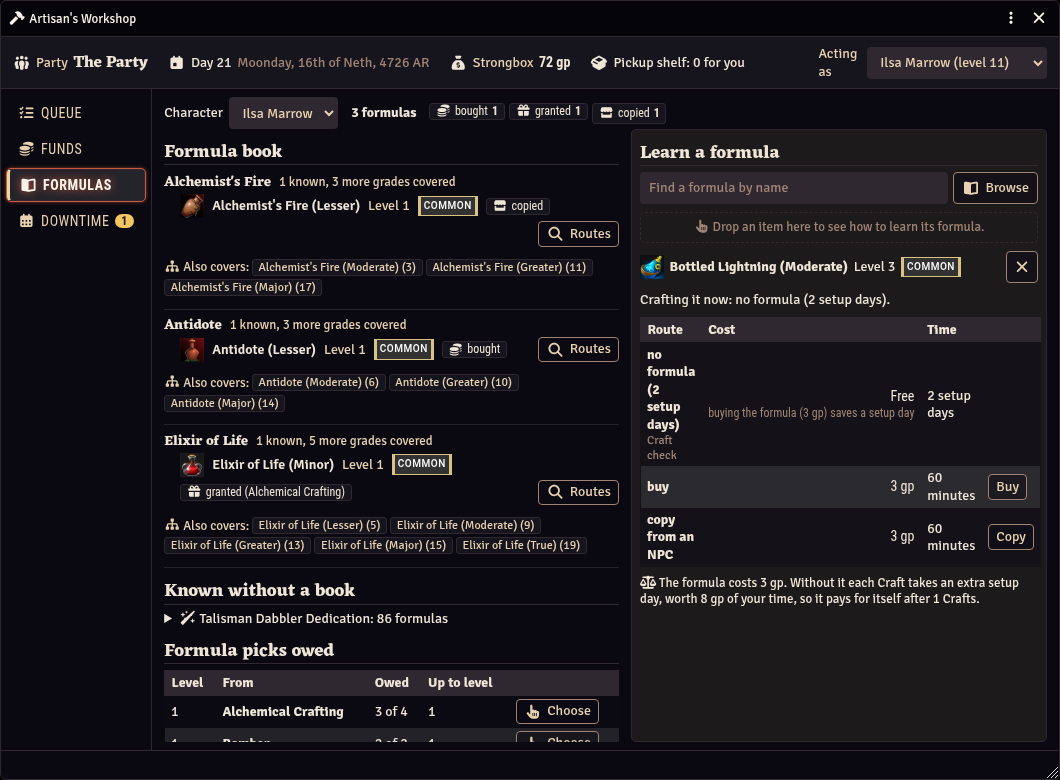
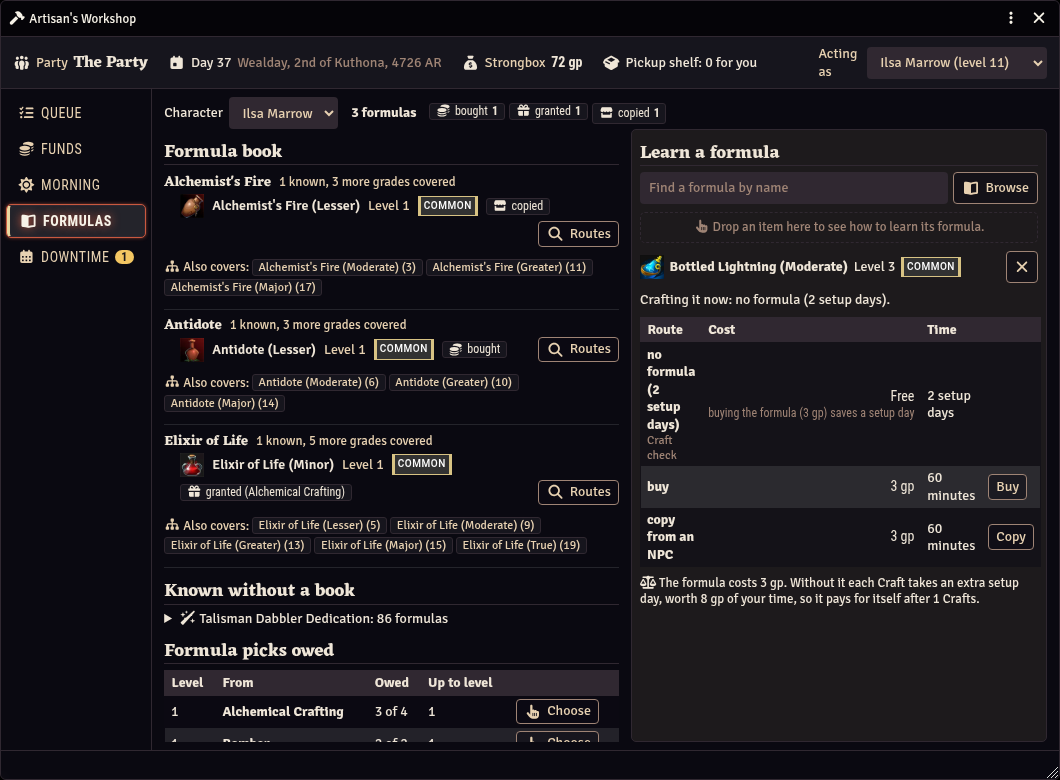
M7 live pass: press-held renders fix; Morning screenshot
First run of the m7-* live plans (with pf2e-dailies active and, where
the plans do not set it themselves, with it off for the world), a
regression run, a hands-on pass as Player One with real clicks, and the
README screenshots refreshed with morning.png (DESIGN 10.13 M7 live
pass, 17.1).

Module fix, with a test that fails without it:
- Typing a talisman count and clicking "Make daily preparations" at
  once lost the click: the count's change event fired on the button's
  press and re-rendered the Morning tab under it. The Workshop now holds
  renders asked for while a pointer is pressed in the window
  (renderParts) and renders after the release's click; field changes
  and live refreshes go through it.

Screenshots: morning.png moves from NEXT_CAPTURES into CAPTURES and the
README; the staging saves a loadout for the demo alchemist through the
API and places a standing order from the fighter's player, so the
capture shows a plan, a request and the talisman picker. Low findings
are logged in DESIGN 10.13 Follow-ups.

Changed region(s): [[0.0, 0.2154, 0.1557, 0.3385], [0.2179, 0.0615, 0.716, 0.0923]]

diff --git a/DESIGN.md b/DESIGN.md
@@ -4980,7 +4980,7 @@ additions to `services.mjs`, `formulas.mjs`, `settings.mjs`, `sync.mjs`, `api.mj
 pure parts (`test/logic/morning.test.mjs`, `expiry.test.mjs`, `talismans.test.mjs`); stub tests the Foundry and window parts
 over a fake of pf2e's crafting model (`test/foundry/pf2e-crafting.mjs`: `CraftingAbility` and `performDailyCrafting` as the
 pf2e source runs them, including stacking by `system` data only, the unawaited stack update of `craft`, and the refusal of a
-pool beyond its slots; `test/foundry/morning.test.mjs`, `ui-m7.test.mjs`). The live plans are written and not yet run. pf2e
+pool beyond its slots; `test/foundry/morning.test.mjs`, `ui-m7.test.mjs`). The live plans passed their first run (M7 live pass, below). pf2e
 read: the dev head `be4ab21b` (`src/module/actor/character/crafting/`, `rule-element/crafting-ability.ts`,
 `special-resource.ts`, `scripts/macros/rest-for-the-night.ts`), pf2e-dailies 4.23.1 from its source map.
 
@@ -5112,7 +5112,7 @@ read: the dev head `be4ab21b` (`src/module/actor/character/crafting/`, `rule-ele
   Firework Technician (regain), the alchemist archetype, Wandering Chef and Munitions Machinist (no regain); new entries
   `talismanic-sage` and `munitions-machinist` (off the ignore list): 249 entries, 1202 ignored, validated against the pf2e
   checkout (`PF2E_SRC=<checkout> npm test`, `validate:registry`).
-- **Live plans** (15.3; `tools/harness/morning-scenarios.mjs`, scenario `m7`; `live-plans.mjs`), to run later:
+- **Live plans** (15.3; `tools/harness/morning-scenarios.mjs`, scenario `m7`; `live-plans.mjs`), run in the M7 live pass:
   - `m7-morning` (GM, P1): the bomber's pools from pf2e (Advanced Alchemy with its sources, Talisman Dabbler offering common
     talismans up to level 5), vials; a loadout of Elixir of Life by family prepares Elixir of Life (Moderate) ×2 at level
     11, infused, stamped with the cycle and 24 hours, written into the book by family; two virtual talismans, none in the
@@ -5200,6 +5200,44 @@ read: the dev head `be4ab21b` (`src/module/actor/character/crafting/`, `rule-ele
     `delete` a second delete of an item already gone. `expirySweep` is single-flight (a sweep asked for meanwhile runs
     once more after it), and the expiry claim's applier runs that sweep instead of marking on its own.
 
+#### M7 live pass (2026-10-27, Foundry 14.368, pf2e 8.6.1, pf2e-dailies 4.23.1, no canvas)
+
+One pass at `1130d98` (M0-M7), then once more after the fix below:
+
+- **M7 plans** (`--runs 1`): all seven pass at the first run with pf2e-dailies active in the world (`m7-rest` turns it off
+  for its own run and back, `m7-dailies` needs it on); `m7-morning`, `m7-expiry`, `m7-standing` and `m7-affix` pass again
+  with pf2e-dailies off for the world. No console errors or warnings on any client, no slow server answers. After the fix,
+  all seven, `m4-ui` and `m6-wizard-players` pass once more.
+- **Regression** (`--runs 1`, pf2e-dailies on): scenarios 1 and 7, `m6-wizard-players`, `m6-income`, `m4-lifecycle` and
+  `m5-fund` pass. Console errors: scenario 7's expected ones (15.3), and on `m6-income`'s second device core's "already
+  exists" for the lock page the first device took (the lock-first race the plan provokes, 5.4).
+- **Found and fixed** (with a test that fails without it):
+  - *Typing a talisman count and clicking "Make daily preparations" at once lost the click* (medium, the hands-on pass,
+    with a click held 120 ms as a hand does). The count's change event fires as the field loses focus, which is on the
+    button's press; it rendered the Morning tab and replaced the button before the release. M6 fixed its two fields by
+    rendering nothing, which the Morning cannot do (the plan's lines follow the counts). The window now holds a render
+    asked for while a pointer is pressed in it (`renderParts`: a capture-phase `pointerdown`, released on the document's
+    `pointerup` or `pointercancel`, `PRESS_HOLD_MS` 1.5 s at most) and renders after the release's click; every render a
+    field's change asks for, and the live refreshes, go through it (`ui-m7.test.mjs`).
+- **Hands-on pass** (a scratch Playwright script, real clicks and typing, the GM, Player One and Player Two online; setup
+  through the harness: the bomber's pools and book put back, a "Healer" loadout of Elixir of Life by family through the
+  API, as there is no loadout editor, a wielded longsword and a repair toolkit from the GM). With pf2e-dailies off: Player
+  One opens the Workshop from the Actors directory, the Morning tab, picks "Healer" in Advanced Alchemy's select, types 1
+  for Eye of Enlightenment (Tab) and 1 for Copper Penny and clicks "Make daily preparations" at once: Elixir of Life
+  (Moderate) ×2 and both talismans made, stamped cycle 0, the Morning card posted (after the fix; before it the click was
+  lost). On the affix board, "Longsword" chosen for Eye of Enlightenment and "Affix": the board says the longsword's
+  talisman works. The GM hands one elixir to Player Two's fighter and one to the party stash, then rests the party from
+  the party sheet (Exploration, the bed button, pf2e's "Rest for the night?" Yes): pf2e deletes the rested characters'
+  temporary items (the alchemist's own and the fighter's elixir, the affixed talisman), the stash's elixir becomes
+  "Elixir of Life (Moderate) (inert)", the alchemist's cycle goes to 1, one Morning prompt on Player One's client and the
+  tab's badge reads 1; preparing again from the tab makes new items stamped cycle 1. With pf2e-dailies on (every page
+  reloaded) the same party rest: its `rested` flag set, the cycle at 2, the cycle-1 elixir in the stash inert, one prompt;
+  Player One opens the character sheet from the directory, clicks pf2e-dailies' icon, picks "Healer" in the Workshop's
+  Advanced Alchemy row (the talisman row on "keep"), Accept: "Morning applied", Elixir of Life (Moderate) ×2 and the two
+  talismans again, stamped cycle 2. No raw keys in the Workshop, pf2e-dailies' window or the cards posted, and no console
+  errors on any client. The dev world's chat log keeps cards and roll flavours posted while the language file failed
+  (before the M6 live pass fix) with raw keys: their text is stored when posted, so they stay so.
+
 #### Follow-ups (M7, low)
 
 - No loadout editor in the window: loadouts are saved from the current preparation (with the last talisman picks) or
@@ -5269,6 +5307,23 @@ read: the dev head `be4ab21b` (`src/module/actor/character/crafting/`, `rule-ele
     with the Workshop's last answer (`flags.MOD.morning.wilderness`).
   - A preserved food whose creator can no longer be read (an actor deleted) stays preserved; Eternal Elixir and the other
     `expiryRule` exceptions of 7.7 are still to come.
+- From the M7 live pass:
+  - The affix board offers every host to each loose talisman: Copper Penny (affixed to an unarmored defense item) was
+    offered the longsword, and "Affix" then refuses it (`wrong-host`). Offer only the hosts `affixHostKinds` allows.
+  - "Affixing the loose talismans takes about 1 minutes" (`Morning.Affix.Minutes` has no singular).
+  - pf2e-dailies' window cuts the talisman pool's "Keep the current preparation and the last talismans made" to "... and
+    the la" in its narrow select; shorten `Dailies.KeepTalismans`.
+  - A standing order's chip names the grade asked for ("1 Elixir of Life (Minor) for Doran Vell") while the pool makes
+    the best grade it allows (the plan's line says Moderate), and names the requester twice when they are the recipient
+    ("(asked by Doran Vell)"). Word it by family, and leave out the requester when it is the recipient.
+  - The Dabbler's picker lists every talisman the pool can make (41 for the 11th-level fixture) in one long column, and
+    the Advanced Alchemy card beside it stretches to its height with empty space (`morning.png`). A filter, or the picked
+    ones first with the rest collapsed.
+  - A tab button's tooltip repeats its visible word in the wide tier (it is for the narrow tier, where the word is
+    hidden); after a click, "Morning" covers the Formulas button below it until the pointer moves.
+  - A party rest from the party sheet deletes the temporary items of every rested holder (pf2e), so an infused item handed
+    to a member who rests too is gone rather than inert; only holders that do not rest (the party stash, an NPC) show the
+    module's inert mark. As the rules want; noted because the Expiry card then has nothing to say for those holders.
 
 ---
 
@@ -6175,6 +6230,16 @@ renders the caption on the image's line, beside the 560 px request form (`test/s
 1440x900), checked and compressed like the rest but not yet linked from the README. After the next run, check it by eye,
 move its entry into `CAPTURES` and add its caption to the README's Screenshots section, which the test then holds. The
 live plan `m7-shots` takes the tab at both sizes and schemes as Player One and the GM into `--shots`.
+
+**Refresh after M7's live pass (2026-10-27).** `morning.png` (the Morning tab as Player One) joins the README after
+`downtime.png`, from `CAPTURES`; `NEXT_CAPTURES` is empty again, for the next new tab. The staging adds the Morning
+(`stageMorning`), each step on the client of whoever would take it: Player One saves Ilsa's "Field kit" loadout for
+Advanced Alchemy through the public API (`api.prep.saveLoadout`, families from `api.formulas.family`: two elixirs of life,
+three alchemist's fires, an antidote, from the formulas staged before), and Player Two places Doran's standing order for an
+elixir of life each morning; the capture opens the tab with the loadout as the pool's plan and two talismans picked, so it
+shows the standing order due, the plan's lines (each at the best grade the pool makes, Elixir of Life (Moderate) ×3 with
+the request) and the Dabbler's picker. All seven captures were looked at: no raw keys, no overflow, no fixture names;
+the follow-ups above still show, and the Morning tab's own are in 10.13 (Follow-ups, from the M7 live pass).
 
 ---
 

diff --git a/README.md b/README.md
@@ -53,6 +53,9 @@ until 1.0: every string is rewritten before the first release, and these capture
 ![Downtime](docs/screenshots/downtime.png)\
 *Downtime: the workshop day, a character's days and what they go to, the party's settlement, and an Earn Income job with its pay.*
 
+![Morning](docs/screenshots/morning.png)\
+*Morning: a character's daily crafting by pool, a loadout's plan with an ally's standing order, and the talismans it can make today.*
+
 ![The Queue in the light theme](docs/screenshots/queue-light.png)\
 *The Queue in the light theme, with a finished order's cost summary.*
 
@@ -168,15 +171,15 @@ lib-wrapper on in the world's module configuration, reloads every page, drives p
 loadout in the Workshop's row, and puts the configuration back), deliver a standing order with no GM (`m7-standing`),
 affix talismans with and without Talismanic Sage (`m7-affix`), and photograph the Morning tab (`m7-shots`). Items they
 give are marked `flags.world.pf2e-artisans-workshop-m7`; each plan puts the characters' formula books and prepared lists
-back first. `npm run screenshots` also takes `morning.png`, not yet linked here (DESIGN 17.1).
+back first.
 
 `npm run screenshots` (`tools/harness/screenshots.mjs`, DESIGN.md 17.1) takes the README's screenshots in the same dev
 world, through the same driver. It copies four fixture actors into a demo party with generic names (Player One plays the
 alchemist, Player Two the fighter), makes them the party and the players' characters, stages orders in every state, money
 in the party fund, three formulas and downtime (a settlement, two days of an Earn Income job, a day to resolve on an
 order; the GM moves the world clock forward, so use the dev world), and captures the Workshop window cropped to its frame
-as Player One at 1440x900: the Queue with an order's detail, the request form, Funds, Formulas and Downtime in the dark
-theme, and the Queue in the light one.
+as Player One at 1440x900: the Queue with an order's detail, the request form, Funds, Formulas, Downtime and Morning (a
+loadout and a standing order staged for the alchemist) in the dark theme, and the Queue in the light one.
 Each capture is checked for raw i18n keys, fixture names and overflowing boxes, compressed with ImageMagick's `magick`
 when it is installed (to 256 colours only if it would be over 400 KiB), and written to `docs/screenshots/` (`--out` for
 elsewhere; `--results` for the run's JSON). Then it gives the party and the users their own characters back, deletes the

diff --git a/CHANGELOG.md b/CHANGELOG.md
@@ -65,8 +65,8 @@ All notable changes to this module are documented here. The format follows
   to the strongbox when the crafter does not hold it and returned with the change. Repair, affixing and removing talismans, Identify
   Alchemy and formula copies are service orders any member can ask for and perform.
 - README screenshots (`npm run screenshots`): a demo party staged in a dev world, and the Workshop window captured
-  cropped to its frame (the Queue with an order's detail, the request form, Funds, Formulas, Downtime, and the Queue in
-  the light theme) into `docs/screenshots/`, the only place the asset check allows images; the world is put back afterwards. They
+  cropped to its frame (the Queue with an order's detail, the request form, Funds, Formulas, Downtime, Morning, and the
+  Queue in the light theme) into `docs/screenshots/`, the only place the asset check allows images; the world is put back afterwards. They
   are not part of the release.
 - Fund accounting (M4.1, from the first hands-on session). The Funds tab shows the strongbox as the party fund's
   unallocated money plus what is earmarked for orders, each order's earmarked money by source (the party fund or a
@@ -139,6 +139,9 @@ All notable changes to this module are documented here. The format follows
 
 - Talismanic Sage was never recognised when affixing (its feat was missing from the rules registry), so a sage could not
   put a second talisman on an item.
+- Typing in a field of the Workshop and clicking a button straight away (a talisman count, then "Make daily
+  preparations") no longer loses the click: the field's change no longer redraws the tab under the button being pressed;
+  it redraws once the button is released.
 
 - Storage and sync, from the first live runs: a client stops writing the moment a shared document it uses is
   deleted, or its user loses OWNER on one, even when no update hook reaches it (players without a canvas); ages

diff --git a/CLAUDE.md b/CLAUDE.md
@@ -46,8 +46,8 @@ M7 is in place: daily preparations (the Morning tab, `scripts/ui/morning.mjs`; s
 affix board and preparing through pf2e's `CraftingAbility` methods, `scripts/foundry/morning.mjs`; party-wide expiry by
 preparation cycle, `scripts/foundry/expiry.mjs`; rest ordering with and without pf2e-dailies, `scripts/foundry/rest.mjs`;
 the pf2e-dailies custom daily, `scripts/foundry/dailies.mjs`; pure parts in `scripts/logic/morning.mjs`, `expiry.mjs`,
-`talismans.mjs`); DESIGN 10.13 says what was built, and the live plans `m7-*` (`tools/harness/morning-scenarios.mjs`) have
-not run yet.
+`talismans.mjs`); DESIGN 10.13 says what was built, and the live plans `m7-*` (`tools/harness/morning-scenarios.mjs`) passed
+their first live pass (10.13, M7 live pass).
 README screenshots: `npm run screenshots` (`tools/harness/screenshots.mjs`, DESIGN 17.1) stages a demo party in the dev
 world and writes `docs/screenshots/`, the only folder where the asset check allows images.
 `DECISIONS.md` holds every
